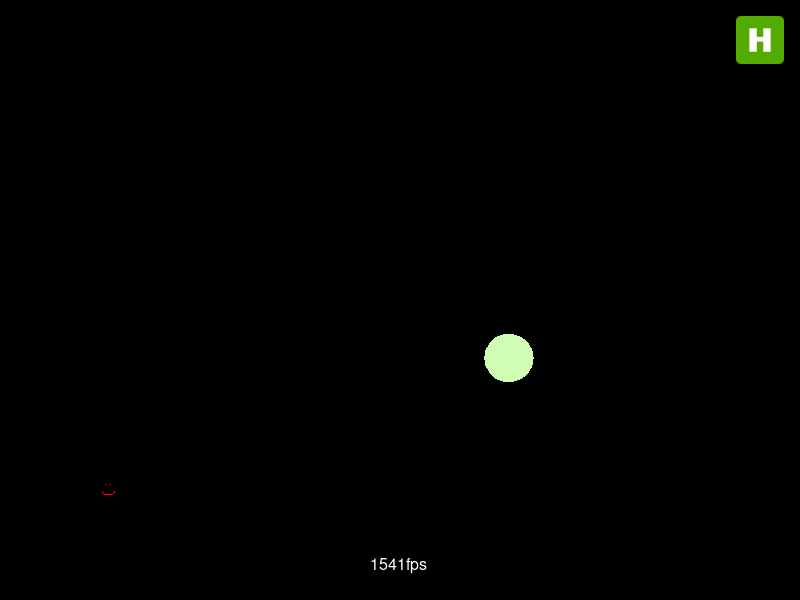
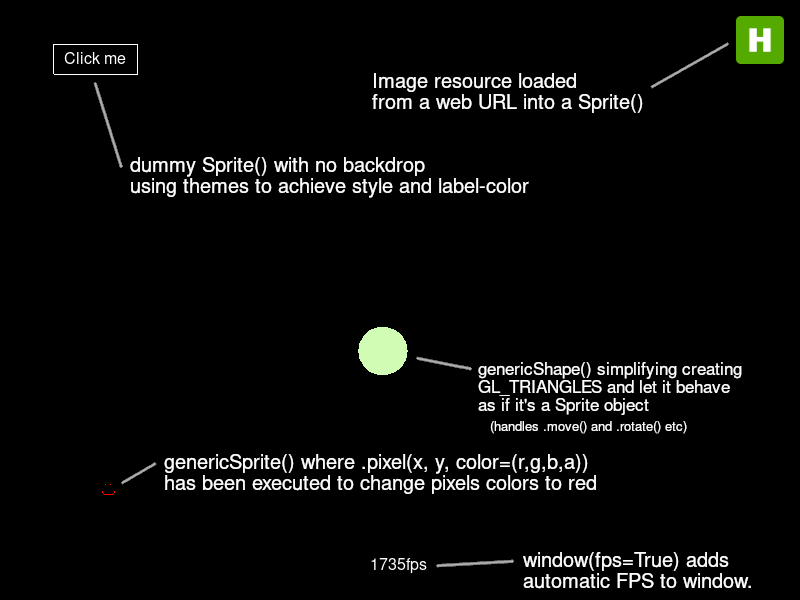
Updated screenshot. Also added genericShape() to the readme.

diff --git a/README.md b/README.md
@@ -79,3 +79,10 @@ class themedObject(theme='default')
 
 Inheriting this class will try to wrap whatever the parent object is, in a theme of sorts.<br>
 This means adding borders, `on_hover` events and possibly backdrops or images as the background. Much like `CSS` to already existing elements in HTML.
+
+```python
+genericShape(shapeType='GL_TRIANGLES')
+```
+
+Generic shape handler, create `GL_` vertices quicker and easier for simpler things.<br>
+Won't handle advanced shapes but will let you work with simpler objects (circles, triangles, squares) as if they were sprites.
